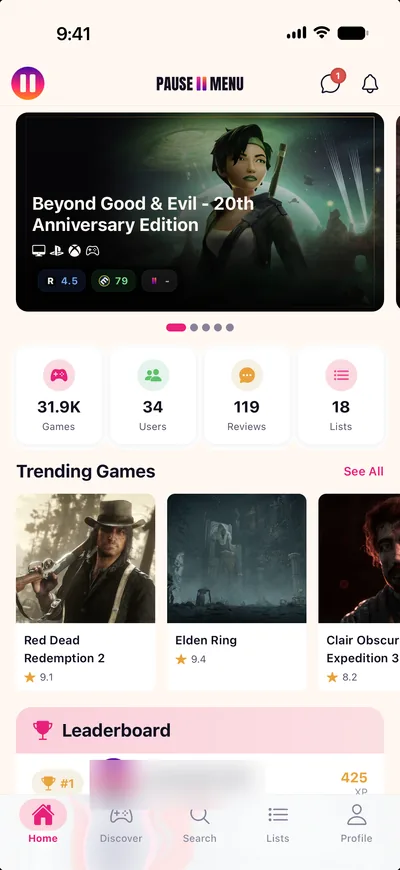
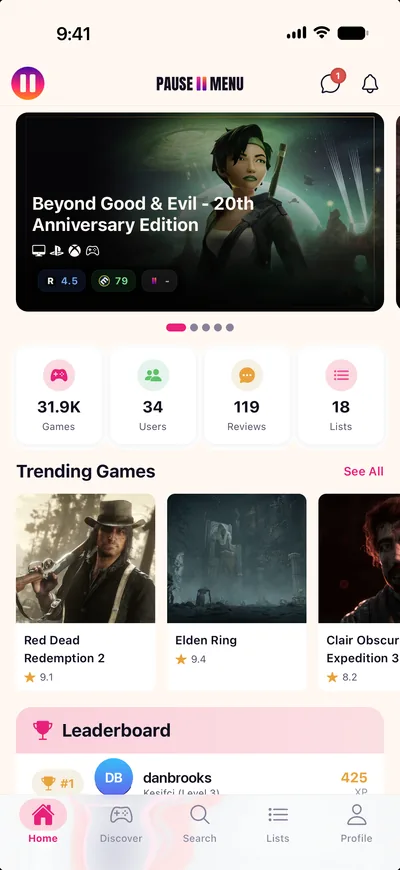
Ekran görselleri: siyah boşluk yerine yer tutucu, liderlikte isim değişimi
- Telefon ve laptop ekranları görsel gelene kadar sayfa zemininde yanıp
  sönüyor, görsel gelince yumuşak geçişle açılıyor (azaltılmış harekette
  yanıp sönme yok)
- Projeler sayfasında öne çıkan Pause Menu görselleri masaüstünde
  prerender edilmiş head'den önceden yükleniyor; mobilde dokunulmadı
- Pause Menu mobil ana ekrandaki liderlik satırı bulanık değil, başka
  bir kullanıcı adı ve avatarla değiştirildi

Changed region(s): [[0.21, 0.869, 0.63, 0.931]]

diff --git a/src/components/DeviceMockups.tsx b/src/components/DeviceMockups.tsx
@@ -1,3 +1,5 @@
+import { ScreenImage } from "./ScreenImage";
+
 interface PhoneMockupProps {
     src: string;
     alt: string;
@@ -20,7 +22,7 @@ export function PhoneMockup({ src, alt, accentColor = "rgba(226,84,14,0.18)" }: 
                         <div className="h-[5px] w-12 rounded-full bg-zinc-800 sm:w-14" />
                     </div>
                     <div className="aspect-[9/19] w-full overflow-hidden">
-                        <img src={src} alt={alt} loading="lazy" className="h-full w-full object-cover object-top" />
+                        <ScreenImage src={src} alt={alt} />
                     </div>
                 </div>
             </div>
@@ -55,7 +57,7 @@ export function LaptopMockup({ src, alt, accentColor = "rgba(226,84,14,0.14)" }:
                     <div className="ml-1.5 h-3 max-w-[120px] flex-1 rounded-md bg-zinc-700/60 sm:ml-2 sm:h-4 sm:max-w-[160px]" />
                 </div>
                 <div className="aspect-[16/10] w-full overflow-hidden">
-                    <img src={src} alt={alt} loading="lazy" className="h-full w-full object-cover object-top" />
+                    <ScreenImage src={src} alt={alt} />
                 </div>
             </div>
             <div className="h-2 w-[108%] max-w-[305px] rounded-b-md bg-ink/70 sm:h-3 sm:max-w-[346px] dark:bg-line" />
@@ -94,8 +96,8 @@ export function DeviceDuo({ laptopSrc, phoneSrc, alt, accentColor = "rgba(139,92
                         <span className="h-2 w-2 rounded-full bg-green-500/70" />
                         <div className="ml-2 h-4 flex-1 rounded-md bg-zinc-700/60" />
                     </div>
-                    <div className="aspect-[16/10] w-full overflow-hidden bg-black">
-                        <img src={laptopSrc} alt={alt} loading="lazy" className="h-full w-full object-cover object-top" />
+                    <div className="aspect-[16/10] w-full overflow-hidden">
+                        <ScreenImage src={laptopSrc} alt={alt} />
                     </div>
                 </div>
                 <div className="mx-auto h-3 w-[110%] -translate-x-[4.5%] rounded-b-lg bg-ink/80 shadow-lg dark:bg-line" />
@@ -107,8 +109,8 @@ export function DeviceDuo({ laptopSrc, phoneSrc, alt, accentColor = "rgba(139,92
                     <div className="flex justify-center bg-black pb-1 pt-1.5">
                         <div className="h-[4px] w-10 rounded-full bg-zinc-800" />
                     </div>
-                    <div className="aspect-[9/19] w-full overflow-hidden bg-black">
-                        <img src={phoneSrc} alt={alt} loading="lazy" className="h-full w-full object-cover object-top" />
+                    <div className="aspect-[9/19] w-full overflow-hidden">
+                        <ScreenImage src={phoneSrc} alt={alt} />
                     </div>
                 </div>
             </div>

diff --git a/scripts/seo-prerender.ts b/scripts/seo-prerender.ts
@@ -15,7 +15,7 @@
      the LCP element or shift layout. */
 
 import { execFileSync } from "node:child_process";
-import { mkdirSync, readFileSync, writeFileSync } from "node:fs";
+import { mkdirSync, readFileSync, readdirSync, writeFileSync } from "node:fs";
 import { dirname, resolve } from "node:path";
 import { fileURLToPath } from "node:url";
 import type { Plugin } from "vite";
@@ -121,7 +121,24 @@ function headBlock(route: RouteKey, lang: Lang): string {
         `<meta data-seo name="twitter:description" content="${esc(head.description)}" />`,
     ];
     if (route === "home") lines.push(jsonLd(lang, t));
+    if (route === "projects") lines.push(...featuredPreloads(lang));
     return lines.join("\n        ");
+}
+
+/* Hashed file names of the built assets, filled in closeBundle. */
+let builtAssets: string[] = [];
+
+/* The featured Pause Menu laptop + phone shots sit next to the heading only on
+   wide screens; there they otherwise wait for the JS to render before the
+   browser even asks for them. On narrow screens they are below the fold, so
+   the media query keeps phones (and mobile Lighthouse) from fetching early. */
+function featuredPreloads(lang: Lang): string[] {
+    const shotLang = lang === "tr" ? "tr" : "en";
+    return ["pausemenu-web", "pausemenu-home"].map((name) => {
+        const file = builtAssets.find((f) => new RegExp(`^${name}-${shotLang}-[\\w-]+\\.webp$`).test(f));
+        if (!file) throw new Error(`seo-prerender: ${name}-${shotLang} not found in assets`);
+        return `<link rel="preload" as="image" href="/assets/${file}" media="(min-width: 1024px)" fetchpriority="high" />`;
+    });
 }
 
 /* Hidden the way screen-reader-only text is, so text extractors keep it. */
@@ -270,6 +287,7 @@ export function seoPrerender(): Plugin {
         },
         closeBundle() {
             const template = readFileSync(resolve(outDir, "index.html"), "utf8");
+            builtAssets = readdirSync(resolve(outDir, "assets"));
             const write = (file: string, html: string) => {
                 const target = resolve(outDir, file);
                 mkdirSync(dirname(target), { recursive: true });

diff --git a/src/components/ScreenImage.tsx b/src/components/ScreenImage.tsx
@@ -1,0 +1,37 @@
+import { useLayoutEffect, useRef, useState } from "react";
+
+interface ScreenImageProps {
+    src: string;
+    alt: string;
+}
+
+/* A device screenshot that fills its screen. The above-the-fold one on the
+   projects page is also preloaded from the prerendered head (desktop only). Until the file arrives the screen
+   shows the page's soft surface with a gentle pulse instead of a black void,
+   then the image fades in. */
+export function ScreenImage({ src, alt }: ScreenImageProps) {
+    const ref = useRef<HTMLImageElement>(null);
+    const [loaded, setLoaded] = useState(false);
+
+    /* A cached image can finish before React attaches onLoad. */
+    useLayoutEffect(() => {
+        const img = ref.current;
+        setLoaded(Boolean(img?.complete && img.naturalWidth > 0));
+    }, [src]);
+
+    return (
+        <div className={`relative h-full w-full bg-soft ${loaded ? "" : "animate-pulse motion-reduce:animate-none"}`}>
+            <img
+                ref={ref}
+                src={src}
+                alt={alt}
+                loading="lazy"
+                decoding="async"
+                onLoad={() => setLoaded(true)}
+                className={`h-full w-full object-cover object-top transition-opacity duration-300 ${
+                    loaded ? "opacity-100" : "opacity-0"
+                }`}
+            />
+        </div>
+    );
+}

diff --git a/src/components/FeaturedPinned.tsx b/src/components/FeaturedPinned.tsx
@@ -4,6 +4,7 @@ import { useRef, useState } from "react";
 import { useTranslation } from "react-i18next";
 import { FiArrowRight } from "react-icons/fi";
 import type { ResolvedProject } from "../data/projects";
+import { ScreenImage } from "./ScreenImage";
 import { SectionHeading } from "./SectionHeading";
 
 /* Featured projects as a pinned, stepped stage (docs/MOTION_SPEC.md 4.6, 15):
@@ -21,7 +22,7 @@ function Phone({ src, alt, className }: { src: string; alt: string; className: s
     return (
         <div className={`absolute overflow-hidden rounded-[1.6rem] border-[3px] border-ink/70 bg-black shadow-2xl dark:border-line ${className}`}>
             <div className="aspect-[9/19.5] w-full overflow-hidden">
-                <img src={src} alt={alt} loading="lazy" decoding="async" className="h-full w-full object-cover object-top" />
+                <ScreenImage src={src} alt={alt} />
             </div>
         </div>
     );
